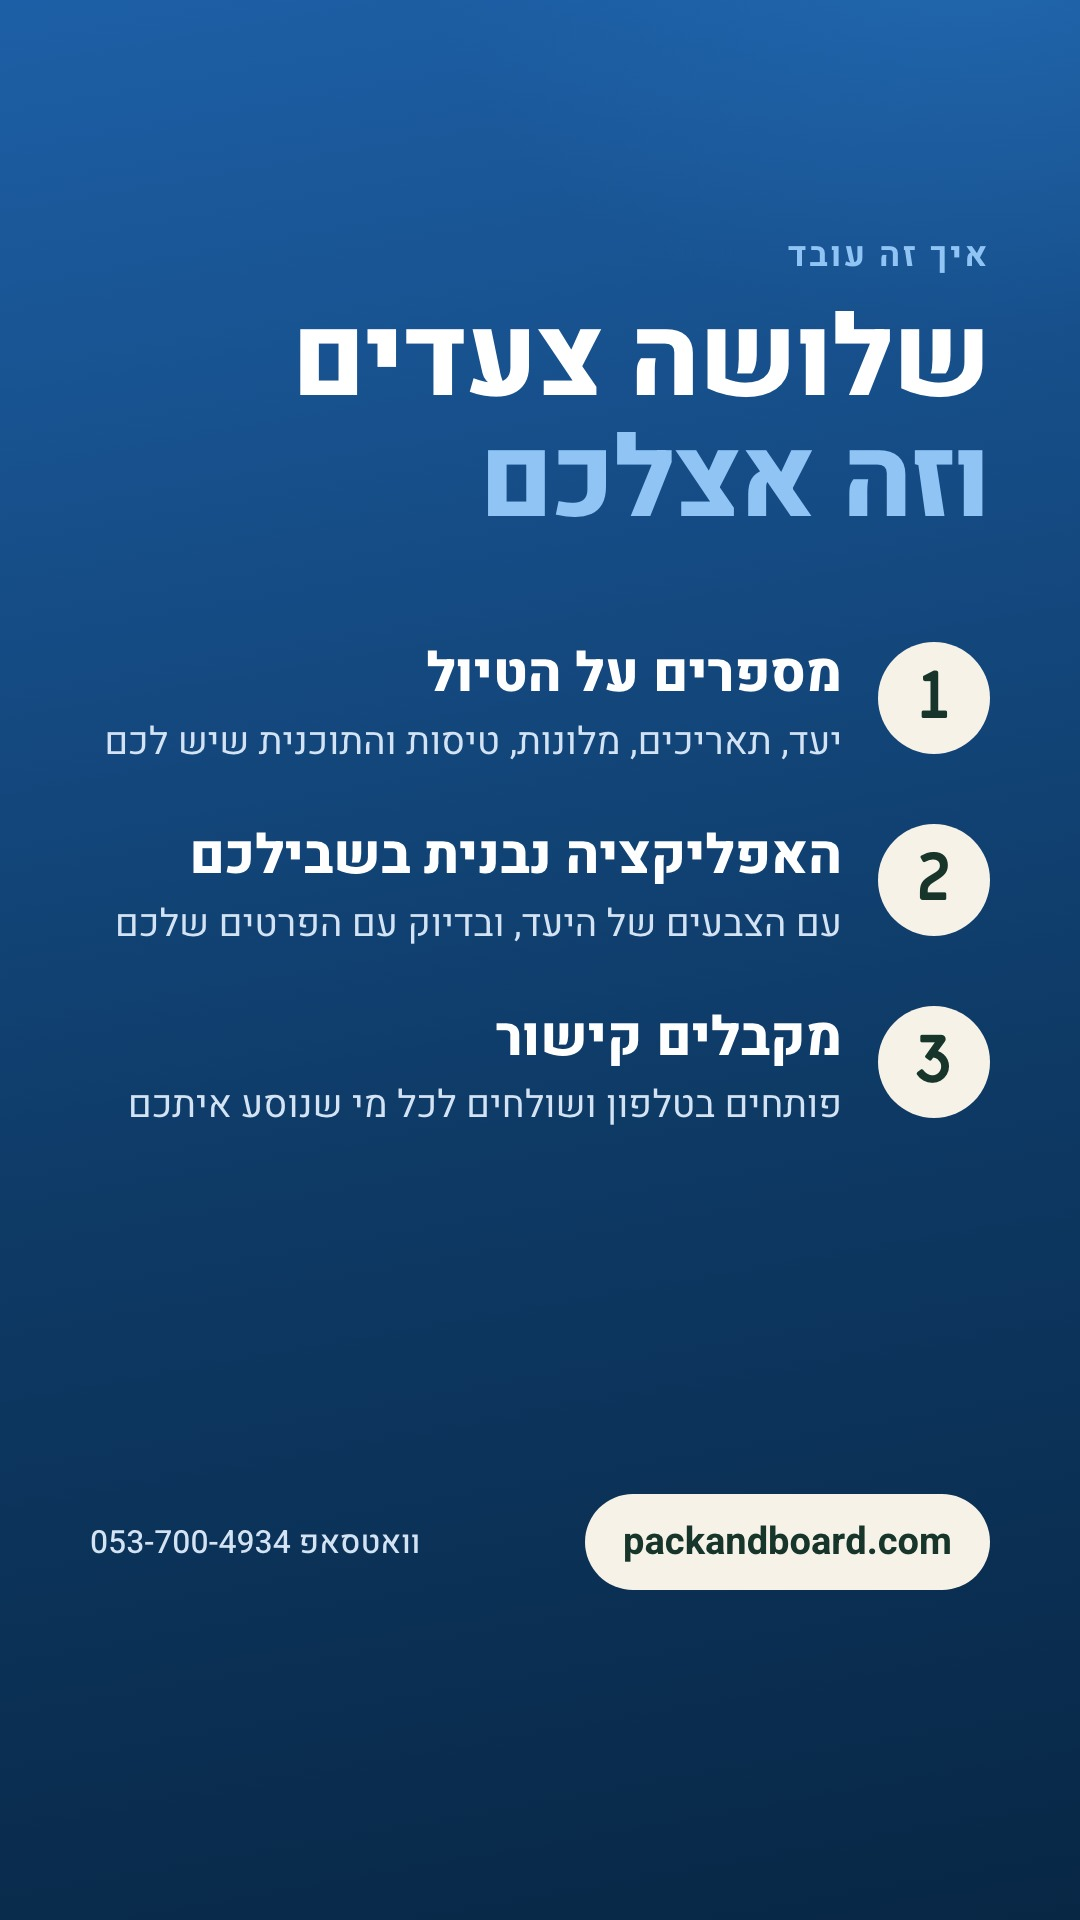
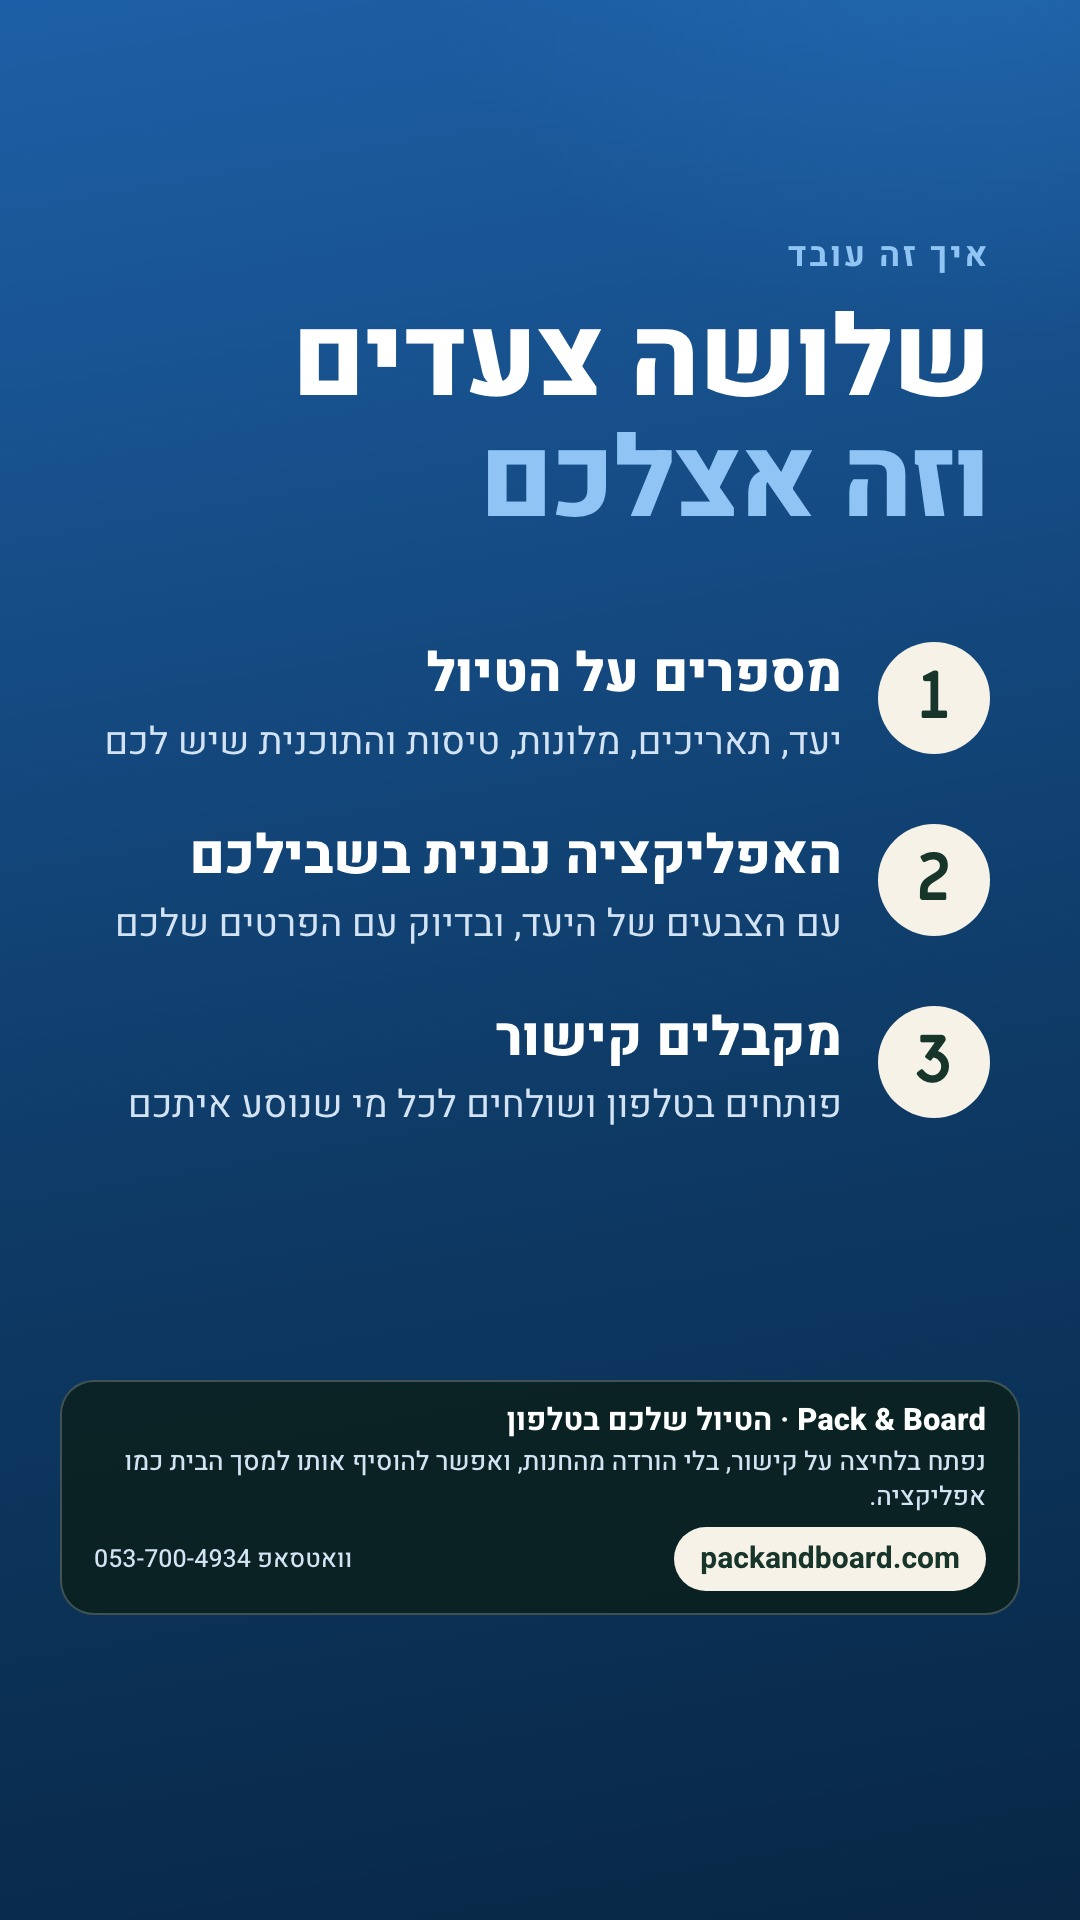
Landing page: how it opens (link, no store download, home screen); stories: each one carries brand, what it is and the link

Changed region(s): [[0.0306, 0.7188, 0.9472, 0.8438]]

diff --git a/index.html b/index.html
@@ -181,7 +181,7 @@ section[id]{scroll-margin-top:72px}
         <a class="btn btn-primary" href="#contact" data-contact>רוצים אחת לטיול שלכם?</a>
         <a class="btn btn-ghost" href="#demos">לראות דוגמה חיה</a>
       </div>
-      <p class="hero-note">בלי התקנה ובלי הרשמה. אפשר להוסיף למסך הבית של הטלפון.</p>
+      <p class="hero-note">נפתח בלחיצה על קישור, בלי הורדה מהחנות, ואפשר להוסיף אותו למסך הבית כמו אפליקציה.</p>
     </div>
     <img class="hero-shot" src="assets/hero-day-v6.jpg" width="1000" height="1350" alt="מסך יום אחר יום באפליקציה: בורר ימים, תוכנית של יום ומפה">
   </div>

diff --git a/en/index.html b/en/index.html
@@ -185,7 +185,7 @@ section[id]{scroll-margin-top:72px}
         <a class="btn btn-primary" href="#contact" data-contact>Want one for your trip?</a>
         <a class="btn btn-ghost" href="#demos">See a live demo</a>
       </div>
-      <p class="hero-note">No install and no sign-up. You can add it to your phone’s home screen.</p>
+      <p class="hero-note">Opens from a link, with no download from the app store, and you can add it to your home screen like an app.</p>
     </div>
     <img class="hero-shot" src="/assets/en-hero-day.jpg" width="1000" height="1350" alt="The day-by-day screen of the app: a day picker, a day plan and a map">
   </div>
